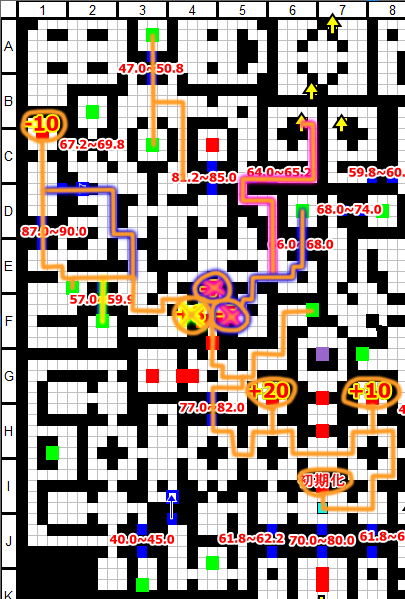
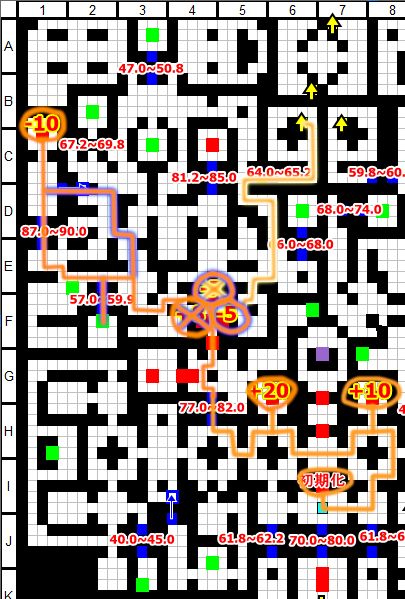
Updated 13F maps and removed a chest

Changed region(s): [[0.0296, 0.1503, 0.8, 0.6912], [0.3556, 0.0601, 0.4741, 0.3005]]

diff --git a/item/chests.md b/item/chests.md
@@ -352,9 +352,9 @@ Any treasure located in floor A that can only be obtained after reaching floor B
 | Pale Wing Thruster | X |
 | Pride | X |
 | T-45d Power Armor | X |
-| Training Manual | O |
-| Floor Total | 3 |
-| Combined Total | 134 |
+| Training Manual | X |
+| Floor Total | 2 |
+| Combined Total | 119 |
 
 #### <a id="floor-14"></a>Floor 14
 
